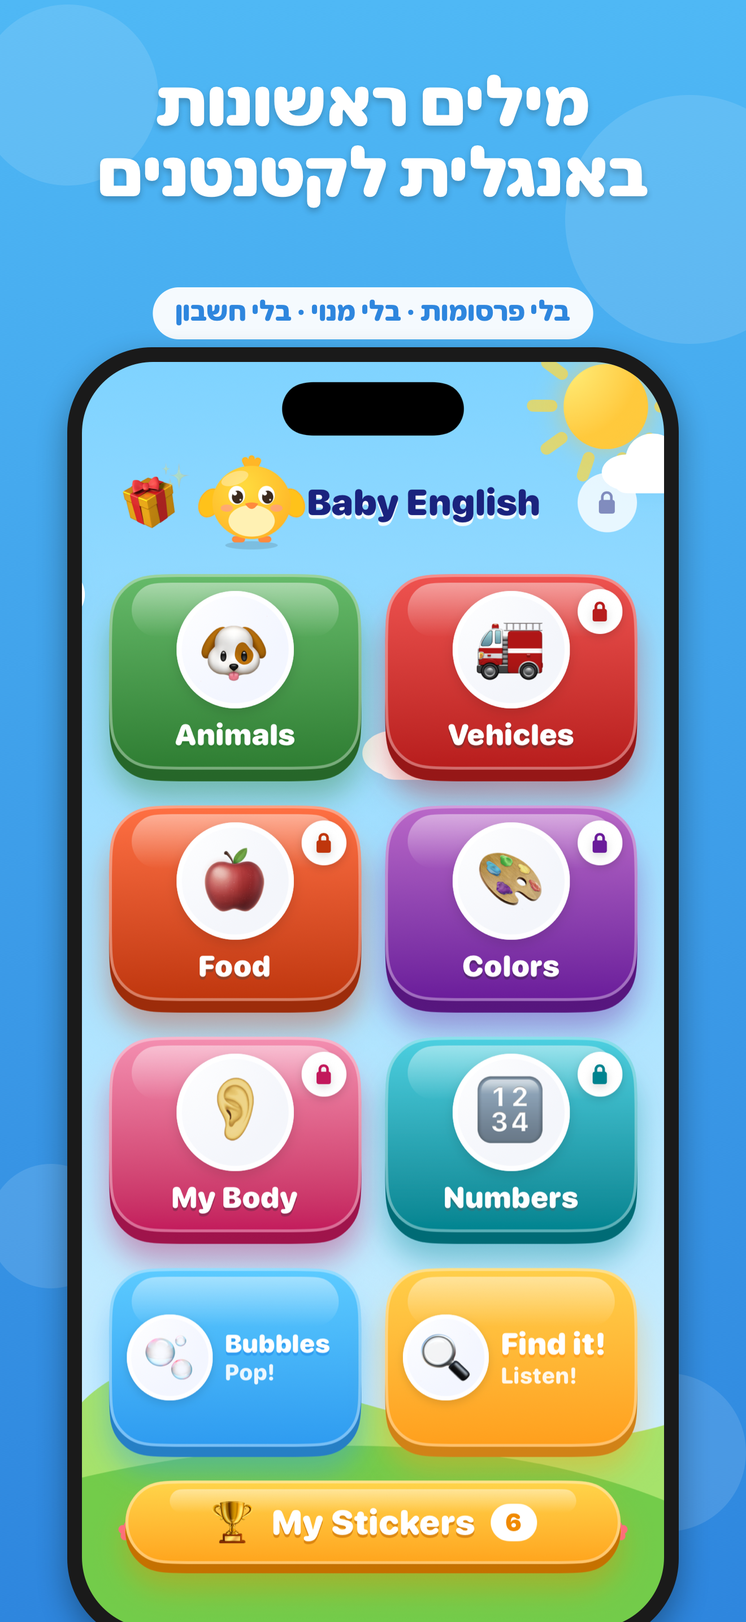
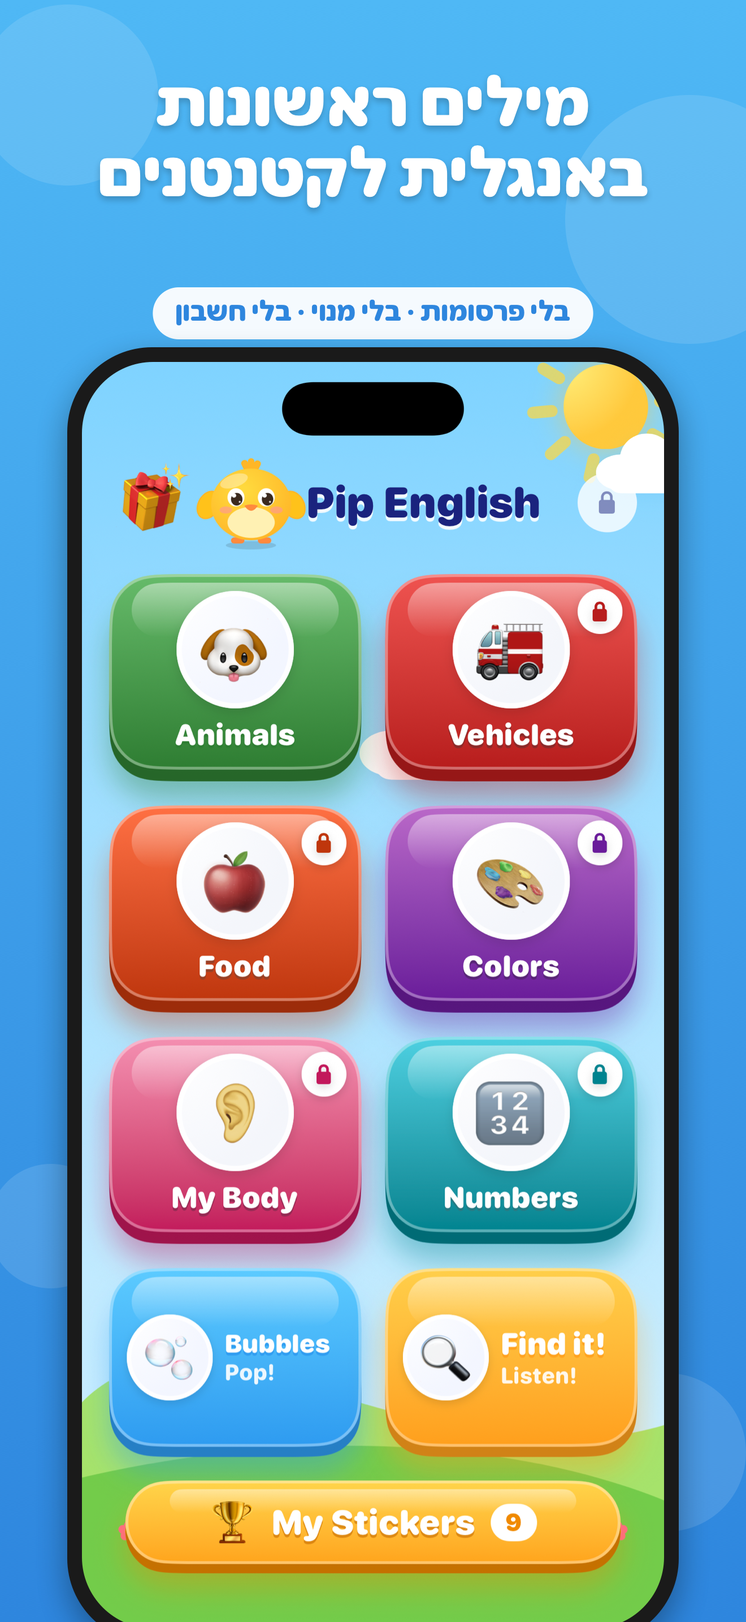
feat: rename the app to Pip English (אנגלית עם פיפ)
- Home-screen name, in-app title, paywall, Parent Zone and privacy text
- App Store names: "Pip English: First Words" / "אנגלית עם פיפ: מילים ראשונות"
- Landing pages, privacy pages, README, submission kit, launch posts
- Screenshot 1 (EN/HE) recaptured with the new name
- Privacy policy now also lists the locally stored Find it! results,
  daily-gift date and settings (still nothing leaves the device)
- Bundle id stays com.babyenglish.app (never shown to users)

diff --git a/docs/index.html b/docs/index.html
@@ -1,6 +1,6 @@
 <!doctype html><html lang="he" dir="rtl"><head><meta charset="utf-8">
-<meta name="viewport" content="width=device-width,initial-scale=1"><title>Baby English — מילים ראשונות באנגלית לילדים</title>
-<meta name="description" content="אפליקציה לילדים בגילאי 3 עד 6: מילים ראשונות באנגלית עם קול ברור, משחקים ופיפ האפרוח. בלי פרסומות ובלי מעקב."><meta property="og:title" content="Baby English — מילים ראשונות באנגלית לילדים">
+<meta name="viewport" content="width=device-width,initial-scale=1"><title>אנגלית עם פיפ — מילים ראשונות באנגלית לילדים</title>
+<meta name="description" content="אפליקציה לילדים בגילאי 3 עד 6: מילים ראשונות באנגלית עם קול ברור, משחקים ופיפ האפרוח. בלי פרסומות ובלי מעקב."><meta property="og:title" content="Pip English — מילים ראשונות באנגלית לילדים">
 <meta property="og:description" content="אפליקציה לילדים בגילאי 3 עד 6: מילים ראשונות באנגלית עם קול ברור, משחקים ופיפ האפרוח. בלי פרסומות ובלי מעקב."><meta property="og:image" content="assets/he_01_home.jpg">
 <link rel="icon" href="assets/icon.png"><style>
 :root{--sky:#7FD3FF;--sky2:#D8F3FF;--ink:#1A237E;--sun:#FFB627;--card:#ffffff;--muted:#4a5577;--bg:#F6FBFF}
@@ -25,10 +25,10 @@ h2{font-size:30px;margin:0 0 18px;font-weight:900}
 ul.par{padding:0;list-style:none;display:grid;gap:10px}ul.par li{background:var(--card);border-radius:16px;padding:14px 18px;font-weight:600}
 footer{text-align:center;padding:30px 16px 50px;color:var(--muted)}footer a{color:inherit}
 </style></head><body>
-<div class="hero"><div class="top"><div class="brand"><img src="assets/icon.png" alt="">Baby English</div><a class="lang" href="en.html">English</a></div>
+<div class="hero"><div class="top"><div class="brand"><img src="assets/icon.png" alt="">אנגלית עם פיפ</div><a class="lang" href="en.html">English</a></div>
 <h1>מילים ראשונות באנגלית<br>לילדים בגילאי 3 עד 6</h1><p class="sub">קול ברור, תמונות גדולות ושלושה משחקים שבנויים לידיים קטנות. עם פיפ, האפרוח שמריע על כל הצלחה.</p><span class="cta soon">בקרוב ב-App Store</span><p class="free">בלי מנוי, אף פעם · עולם החיות וכל המשחקים בחינם · בלי פרסומות · בלי חשבון</p>
 <div class="shots"><img src="assets/he_01_home.jpg" alt="" loading="lazy"><img src="assets/he_02_bubbles.jpg" alt="" loading="lazy"><img src="assets/he_03_findit.jpg" alt="" loading="lazy"><img src="assets/he_05_celebrate.jpg" alt="" loading="lazy"></div></div>
 <section><div class="grid"><div class="card"><div class="e">🫧</div><h3>בועות</h3><p>מפוצצים בועות ושומעים את המילה. כל נגיעה עושה משהו, אין דרך להיכשל.</p></div><div class="card"><div class="e">🔍</div><h3>Find it!</h3><p>שומעים מילה ומוצאים את התמונה. מתחיל עם 2 תמונות ומתקדם יחד עם הילד.</p></div><div class="card"><div class="e">🃏</div><h3>כרטיסיות</h3><p>נוגעים בכל מקום ושומעים את המילה הבאה. 60 מילים ב-6 עולמות: חיות, כלי תחבורה, אוכל, צבעים, הגוף שלי ומספרים.</p></div><div class="card"><div class="e">🗣</div><h3>עברית ← אנגלית</h3><p>שומעים קודם את המילה בעברית ואז באנגלית: ״כלב… Dog!״. הילד מחבר את המילה החדשה למה שהוא כבר מכיר. הכי טוב כשמשחקים יחד עם ההורה.</p></div><div class="card"><div class="e">🏆</div><h3>מדבקות</h3><p>כל סבב שמסתיים מזכה במדבקה וחגיגה קטנה, ופעם ביום פיפ משאיר מתנת הפתעה 🎁</p></div></div></section>
 <section><h2>להורים</h2><ul class="par"><li>✓ בלי פרסומות, בלי אנליטיקה, בלי מעקב. שום מידע לא יוצא מהמכשיר.</li><li>✓ רכישה חד-פעמית וקטנה פותחת את כל העולמות. בלי מנוי. כולל שיתוף משפחתי.</li><li>✓ כל מה שמיועד למבוגרים נמצא מאחורי שער הורים.</li><li>✓ עובד בלי אינטרנט וגם במצב שקט.</li></ul></section>
 <section id="support"><h2>תמיכה</h2><p>שאלות או בעיה? כתבו לנו <a href="https://github.com/ahochma/baby-english/issues">כאן</a>.</p></section>
-<footer><a href="privacy.html">מדיניות פרטיות</a> · © 2026 Baby English</footer></body></html>
+<footer><a href="privacy.html">מדיניות פרטיות</a> · © 2026 אנגלית עם פיפ</footer></body></html>

diff --git a/docs/privacy.html b/docs/privacy.html
@@ -1,5 +1,5 @@
 <!doctype html><html lang="en"><head><meta charset="utf-8"><meta name="viewport" content="width=device-width,initial-scale=1">
-<title>Baby English — Privacy Policy</title><link rel="icon" href="assets/icon.png"><style>
+<title>Pip English — Privacy Policy</title><link rel="icon" href="assets/icon.png"><style>
 :root{--sky:#7FD3FF;--sky2:#D8F3FF;--ink:#1A237E;--sun:#FFB627;--card:#ffffff;--muted:#4a5577;--bg:#F6FBFF}
 @media (prefers-color-scheme:dark){:root{--ink:#E8ECFF;--card:#1B2240;--muted:#B5BEDF;--bg:#0F1530;--sky:#1E3A6E;--sky2:#0F1530}}
 *{box-sizing:border-box}body{margin:0;font-family:ui-rounded,"SF Pro Rounded",-apple-system,"Segoe UI",Arial,sans-serif;color:var(--ink);background:var(--bg);line-height:1.5}
@@ -23,30 +23,30 @@ ul.par{padding:0;list-style:none;display:grid;gap:10px}ul.par li{background:var(
 footer{text-align:center;padding:30px 16px 50px;color:var(--muted)}footer a{color:inherit}
 
 main{max-width:760px;margin:0 auto;padding:32px 16px} li{margin:6px 0} h1{font-size:34px;margin:20px 0} [lang=he]{direction:rtl}</style></head>
-<body><main><h1>Baby English — Privacy Policy</h1>
+<body><main><h1>Pip English — Privacy Policy</h1>
 <p>Last updated: November 2026</p>
-<p>The short version: Baby English collects no personal data. None.</p>
+<p>The short version: Pip English collects no personal data. None.</p>
 <h2>What we collect</h2>
 <p>Nothing. The app has no accounts, no sign-in, no advertising, no analytics SDKs, no tracking and no third-party code. It never connects to our servers, because there are none.</p>
 <h2>What is stored on the device</h2>
 <p>To keep your child&#x27;s progress, the app stores these on the device only:</p>
-<li>stickers earned</li>
-<li>which words have been heard</li>
+<li>stickers earned, and the day the last daily gift was opened</li>
+<li>which words have been heard, and how Find it! answers went (so the app can repeat the words your child finds hard)</li>
 <li>the daily play streak</li>
-<li>the sound-effects setting</li>
+<li>your settings (sound effects, music, calm mode, Hebrew→English)</li>
 <p>This data never leaves the device. Deleting the app deletes it.</p>
 <h2>Purchases</h2>
 <p>The optional &quot;Unlock Everything&quot; purchase is processed entirely by Apple through the App Store. We never receive your name, email address or payment details.</p>
 <h2>Children</h2>
-<p>Baby English is made for children under 5 and is designed to comply with COPPA (US) and GDPR-K (EU/UK). We do not collect personal information from children. Purchases, settings and external links sit behind a parental gate.</p>
+<p>Pip English is made for children under 5 and is designed to comply with COPPA (US) and GDPR-K (EU/UK). We do not collect personal information from children. Purchases, settings and external links sit behind a parental gate.</p>
 <h2>Changes</h2>
 <p>If this policy changes, the new version will be posted on this page with a new date.</p>
 <h2>Contact</h2>
-<p>Questions? Contact us via the support link on the Baby English App Store page.</p>
+<p>Questions? Contact us via the support link on the Pip English App Store page.</p>
 <hr><div lang="he" dir="rtl">
-<h1>מדיניות פרטיות — Baby English</h1>
-<p>בקצרה: Baby English לא אוספת שום מידע אישי.</p>
+<h1>מדיניות פרטיות — אנגלית עם פיפ</h1>
+<p>בקצרה: אנגלית עם פיפ לא אוספת שום מידע אישי.</p>
 <li>אין חשבונות, אין פרסומות, אין אנליטיקה, אין מעקב ואין קוד של צד שלישי.</li>
-<li>המדבקות, המילים שנשמעו, רצף הימים והגדרת הצלילים נשמרים רק במכשיר. מחיקת האפליקציה מוחקת אותם.</li>
+<li>המדבקות, המילים שנשמעו, תוצאות Find it! (כדי לחזור על מילים קשות), רצף הימים וההגדרות נשמרים רק במכשיר. מחיקת האפליקציה מוחקת אותם.</li>
 <li>רכישות מטופלות במלואן על ידי Apple. אנחנו לא רואים שם, אימייל או פרטי תשלום.</li>
-<li>האפליקציה מיועדת לילדים מתחת לגיל 5 ועומדת ב-COPPA וב-GDPR-K. רכישות, הגדרות וקישורים נמצאים מאחורי שער הורים.</li></div><p><a href="index.html">← Baby English</a></p></main></body></html>
+<li>האפליקציה מיועדת לילדים מתחת לגיל 5 ועומדת ב-COPPA וב-GDPR-K. רכישות, הגדרות וקישורים נמצאים מאחורי שער הורים.</li></div><p><a href="index.html">← Pip English</a></p></main></body></html>

diff --git a/docs/en.html b/docs/en.html
@@ -1,6 +1,6 @@
 <!doctype html><html lang="en" dir="ltr"><head><meta charset="utf-8">
-<meta name="viewport" content="width=device-width,initial-scale=1"><title>Baby English — First English words for kids</title>
-<meta name="description" content="First English words for kids aged 3–6: a clear voice, three games and Pip the chick. No ads, no tracking."><meta property="og:title" content="Baby English — First English words for kids">
+<meta name="viewport" content="width=device-width,initial-scale=1"><title>Pip English — First English words for kids</title>
+<meta name="description" content="First English words for kids aged 3–6: a clear voice, three games and Pip the chick. No ads, no tracking."><meta property="og:title" content="Pip English — First English words for kids">
 <meta property="og:description" content="First English words for kids aged 3–6: a clear voice, three games and Pip the chick. No ads, no tracking."><meta property="og:image" content="assets/en_01_home.jpg">
 <link rel="icon" href="assets/icon.png"><style>
 :root{--sky:#7FD3FF;--sky2:#D8F3FF;--ink:#1A237E;--sun:#FFB627;--card:#ffffff;--muted:#4a5577;--bg:#F6FBFF}
@@ -25,10 +25,10 @@ h2{font-size:30px;margin:0 0 18px;font-weight:900}
 ul.par{padding:0;list-style:none;display:grid;gap:10px}ul.par li{background:var(--card);border-radius:16px;padding:14px 18px;font-weight:600}
 footer{text-align:center;padding:30px 16px 50px;color:var(--muted)}footer a{color:inherit}
 </style></head><body>
-<div class="hero"><div class="top"><div class="brand"><img src="assets/icon.png" alt="">Baby English</div><a class="lang" href="index.html">עברית</a></div>
+<div class="hero"><div class="top"><div class="brand"><img src="assets/icon.png" alt="">Pip English</div><a class="lang" href="index.html">עברית</a></div>
 <h1>First English words<br>for kids aged 3–6</h1><p class="sub">A clear, friendly voice, big pictures and three games built for little hands. With Pip, the chick who cheers every success.</p><span class="cta soon">Coming soon to the App Store</span><p class="free">No subscription, ever · Animals and all games are free · No ads · No account</p>
 <div class="shots"><img src="assets/en_01_home.jpg" alt="" loading="lazy"><img src="assets/en_02_bubbles.jpg" alt="" loading="lazy"><img src="assets/en_03_findit.jpg" alt="" loading="lazy"><img src="assets/en_05_celebrate.jpg" alt="" loading="lazy"></div></div>
 <section><div class="grid"><div class="card"><div class="e">🫧</div><h3>Bubbles</h3><p>Pop floating bubbles to hear each word. Every touch does something, no way to fail.</p></div><div class="card"><div class="e">🔍</div><h3>Find it!</h3><p>Hear a word, find the picture. Starts with 2 pictures and grows with your child.</p></div><div class="card"><div class="e">🃏</div><h3>Flashcards</h3><p>Tap anywhere to hear the next word. 60 words in 6 worlds: animals, vehicles, food, colors, body and numbers.</p></div><div class="card"><div class="e">🏆</div><h3>Stickers</h3><p>Every finished round earns a sticker, and once a day Pip leaves a surprise gift 🎁</p></div></div></section>
 <section><h2>For parents</h2><ul class="par"><li>✓ No ads, no analytics, no tracking. Nothing leaves the device.</li><li>✓ One small one-time purchase unlocks every world. No subscription. Family Sharing included.</li><li>✓ Everything for grown-ups sits behind a parental gate.</li><li>✓ Works offline and in silent mode.</li></ul></section>
 <section id="support"><h2>Support</h2><p>Questions or a problem? Write to us <a href="https://github.com/ahochma/baby-english/issues">here</a>.</p></section>
-<footer><a href="privacy.html">Privacy policy</a> · © 2026 Baby English</footer></body></html>
+<footer><a href="privacy.html">Privacy policy</a> · © 2026 Pip English</footer></body></html>

diff --git a/ios/App/App/PaywallView.swift b/ios/App/App/PaywallView.swift
@@ -105,7 +105,7 @@ struct PaywallView: View {
 
     private func titleBlock(u: CGFloat) -> some View {
         VStack(spacing: 8) {
-            Text(L10n.t("Unlock all of Baby English", "פתחו את כל Baby English"))
+            Text(L10n.t("Unlock all of Pip English", "פתחו את כל העולמות של פיפ"))
                 .font(.system(size: 28 * u, weight: .heavy, design: .rounded))
                 .multilineTextAlignment(.center)
                 .foregroundColor(Palette.parentInk)
@@ -250,11 +250,11 @@ struct PrivacyPolicyView: View {
             ScrollView {
                 VStack(alignment: .leading, spacing: 16) {
                     section(L10n.t("The short version", "בקצרה"),
-                            L10n.t("Baby English collects no personal data. There are no accounts, no ads, no analytics and no tracking. Nothing your child does in the app ever leaves the device.",
-                                   "Baby English לא אוספת שום מידע אישי. אין חשבונות, אין פרסומות, אין אנליטיקה ואין מעקב. שום דבר שהילד עושה באפליקציה לא יוצא מהמכשיר."))
+                            L10n.t("Pip English collects no personal data. There are no accounts, no ads, no analytics and no tracking. Nothing your child does in the app ever leaves the device.",
+                                   "אנגלית עם פיפ לא אוספת שום מידע אישי. אין חשבונות, אין פרסומות, אין אנליטיקה ואין מעקב. שום דבר שהילד עושה באפליקציה לא יוצא מהמכשיר."))
                     section(L10n.t("What is stored on the device", "מה נשמר במכשיר"),
-                            L10n.t("Stickers earned, which words were heard, the play streak and your sound setting are saved only on this device so progress isn't lost. Deleting the app deletes them.",
-                                   "המדבקות שנאספו, המילים שנשמעו, רצף הימים והגדרת הצלילים נשמרים רק במכשיר הזה כדי שההתקדמות לא תאבד. מחיקת האפליקציה מוחקת אותם."))
+                            L10n.t("Stickers earned, which words were heard, how Find it! answers went (so hard words come back more often), the play streak and your settings are saved only on this device so progress isn't lost. Deleting the app deletes them.",
+                                   "המדבקות שנאספו, המילים שנשמעו, תוצאות Find it! (כדי שמילים קשות יחזרו יותר), רצף הימים וההגדרות נשמרים רק במכשיר הזה כדי שההתקדמות לא תאבד. מחיקת האפליקציה מוחקת אותם."))
                     section(L10n.t("Purchases", "רכישות"),
                             L10n.t("Purchases are handled entirely by Apple. We never see your name, email or payment details.",
                                    "הרכישות מטופלות במלואן על ידי Apple. אנחנו לא רואים את השם, האימייל או פרטי התשלום שלכם."))

diff --git a/ios/App/App/ParentZoneView.swift b/ios/App/App/ParentZoneView.swift
@@ -263,7 +263,7 @@ struct ParentZoneView: View {
             VStack(spacing: 0) {
                 row(L10n.t("Privacy policy", "מדיניות פרטיות"), "hand.raised.fill") { showPrivacy = true }
                 Divider().padding(.vertical, 6)
-                row(L10n.t("Rate Baby English", "דרגו את Baby English"), "star.fill") { requestReview() }
+                row(L10n.t("Rate Pip English", "דרגו את אנגלית עם פיפ"), "star.fill") { requestReview() }
                 Divider().padding(.vertical, 6)
                 HStack {
                     Label(L10n.t("Version", "גרסה"), systemImage: "info.circle")

diff --git a/ios/App/App/HomeView.swift b/ios/App/App/HomeView.swift
@@ -126,7 +126,7 @@ struct HomeView: View {
                     .frame(width: 62 * u, height: 62 * u)
                     .offset(y: mascotHop ? -14 * u : 0)
                     .onTapGesture(perform: hopMascot)
-                Text("Baby English")
+                Text("Pip English")
                     .font(.system(size: 31 * u, weight: .black, design: .rounded))
                     .foregroundColor(Palette.ink)
                     .shadow(color: .white.opacity(0.9), radius: 0, x: 0, y: 2.5)

diff --git a/docs/privacy-policy.md b/docs/privacy-policy.md
@@ -1,18 +1,18 @@
-# Baby English — Privacy Policy
+# Pip English — Privacy Policy
 
 _Last updated: November 2026_
 
-**The short version: Baby English collects no personal data. None.**
+**The short version: Pip English collects no personal data. None.**
 
 ## What we collect
 Nothing. The app has no accounts, no sign-in, no advertising, no analytics SDKs, no tracking and no third-party code. It never connects to our servers, because there are none.
 
 ## What is stored on the device
 To keep your child's progress, the app stores these on the device only:
-- stickers earned
-- which words have been heard
+- stickers earned, and the day the last daily gift was opened
+- which words have been heard, and how Find it! answers went (so the app can repeat the words your child finds hard)
 - the daily play streak
-- the sound-effects setting
+- your settings (sound effects, music, calm mode, Hebrew→English)
 
 This data never leaves the device. Deleting the app deletes it.
 
@@ -20,21 +20,21 @@ This data never leaves the device. Deleting the app deletes it.
 The optional "Unlock Everything" purchase is processed entirely by Apple through the App Store. We never receive your name, email address or payment details.
 
 ## Children
-Baby English is made for children under 5 and is designed to comply with COPPA (US) and GDPR-K (EU/UK). We do not collect personal information from children. Purchases, settings and external links sit behind a parental gate.
+Pip English is made for children under 5 and is designed to comply with COPPA (US) and GDPR-K (EU/UK). We do not collect personal information from children. Purchases, settings and external links sit behind a parental gate.
 
 ## Changes
 If this policy changes, the new version will be posted on this page with a new date.
 
 ## Contact
-Questions? Contact us via the support link on the Baby English App Store page.
+Questions? Contact us via the support link on the Pip English App Store page.
 
 ---
 
-# מדיניות פרטיות — Baby English
+# מדיניות פרטיות — אנגלית עם פיפ
 
-**בקצרה: Baby English לא אוספת שום מידע אישי.**
+**בקצרה: אנגלית עם פיפ לא אוספת שום מידע אישי.**
 
 - אין חשבונות, אין פרסומות, אין אנליטיקה, אין מעקב ואין קוד של צד שלישי.
-- המדבקות, המילים שנשמעו, רצף הימים והגדרת הצלילים נשמרים **רק במכשיר**. מחיקת האפליקציה מוחקת אותם.
+- המדבקות, המילים שנשמעו, תוצאות Find it! (כדי לחזור על מילים קשות), רצף הימים וההגדרות נשמרים **רק במכשיר**. מחיקת האפליקציה מוחקת אותם.
 - רכישות מטופלות במלואן על ידי Apple. אנחנו לא רואים שם, אימייל או פרטי תשלום.
 - האפליקציה מיועדת לילדים מתחת לגיל 5 ועומדת ב-COPPA וב-GDPR-K. רכישות, הגדרות וקישורים נמצאים מאחורי שער הורים.

diff --git a/docs/APP_STORE.md b/docs/APP_STORE.md
@@ -1,6 +1,6 @@
 # App Store submission kit
 
-Everything needed to take Baby English from this repo to "Ready for Sale".
+Everything needed to take Pip English from this repo to "Ready for Sale".
 Work through the checklist top to bottom.
 
 ---
@@ -49,7 +49,7 @@ Attach the IAP to the first version submission ("In-App Purchases" section on th
 > All listing text and the captioned screenshots are ready to upload in `fastlane/` (`fastlane deliver`, or paste the text files by hand). The copy below is the same text for reference.
 
 ### English
-- **Name:** Baby English: First Words
+- **Name:** Pip English: First Words
 - **Subtitle:** English words & games, ages 3–6
 - **Promotional text:** New: Bubbles for babies and Find it! for toddlers. Animals and all games are free.
 - **Keywords:** `toddler,baby,first words,flashcards,kids,learn english,preschool,abc,animals,colors,vehicles,esl`
@@ -79,7 +79,7 @@ Attach the IAP to the first version submission ("In-App Purchases" section on th
 > The Animals world and every game are free forever. One small, one-time purchase unlocks five more worlds: Vehicles, Food, Colors, My Body and Numbers (60 words in all). No subscription. Family Sharing included.
 
 ### עברית (Hebrew localization; add "Hebrew" in App Store Connect)
-- **שם:** Baby English: מילים ראשונות
+- **שם:** אנגלית עם פיפ: מילים ראשונות
 - **כותרת משנה:** אנגלית לילדים בגילאי 3–6
 - **מילות מפתח:** `אנגלית,תינוק,פעוט,מילים ראשונות,כרטיסיות,ילדים,גן,לימוד,חיות,צבעים,משחק,english`
 - **תיאור:**
@@ -130,7 +130,7 @@ App preview video (optional, big conversion win): a 15-second screen recording o
 
 ## 7. Notes for App Review (paste into "App Review Information → Notes")
 
-> Baby English is a Kids Category app (ages 5 and under).
+> Pip English is a Kids Category app (ages 5 and under).
 > • The parental gate is a multiplication question with a number pad. It appears before the paywall, the Parent Zone, restore purchase and the external Terms link.
 > • To reach the purchase: tap any card with a lock (e.g. "Vehicles"), solve the gate, and you'll see the "Unlock Everything" non-consumable IAP.
 > • The app collects no data, contains no third-party SDKs, no ads and no analytics.

diff --git a/docs/LAUNCH_50.md b/docs/LAUNCH_50.md
@@ -34,7 +34,7 @@ Everything that can be prepared is already in the repo:
 
 ### Tue 24 (while in review): trust & featuring
 - App Store Connect → **Featuring Nominations** → nominate the launch (Kids, Education). Mention: no ads, no subscription, no data, Hebrew→English mode.
-- Check whether **Common Sense Media** accepts title suggestions, and suggest Baby English. Their reviews carry a lot of weight with parents.
+- Check whether **Common Sense Media** accepts title suggestions, and suggest Pip English. Their reviews carry a lot of weight with parents.
 
 ### Thu 26: launch day (target 25 downloads)
 - As soon as it's "Ready for Sale": put the link in `docs/index.html` (`APP_STORE_URL` at the top of the generator, or just replace the "Coming soon" button) and send it to **everyone who said "me"**.
@@ -61,7 +61,7 @@ Fill the bracketed parts with real details only. Made-up testimonials hurt trust
 > 🐣 השקנו אפליקציה קטנה ללימוד אנגלית לילדים בגילאי 3–6!
 >
 > [משפט אישי אמיתי שלכם: למה בניתם את זה. למשל מה קרה בבית שגרם לכם להתחיל]
-> אז בנינו את **Baby English**:
+> אז בנינו את **אנגלית עם פיפ** (Pip English):
 > 🫧 מפוצצים בועות ושומעים מילים
 > 🔍 Find it! – שומעים מילה ומוצאים את התמונה
 > 🃏 כרטיסיות עם קול ברור ותמונות גדולות

diff --git a/docs/GO_TO_MARKET.md b/docs/GO_TO_MARKET.md
@@ -24,7 +24,7 @@ Israel without paid ads, because the Hebrew App Store has almost no polished
 
 ## Positioning: the anti-subscription kids' app
 
-Competitor reviews (e.g. 1-star reviews on popular kids' English apps) are dominated by: surprise monthly charges, trials that convert into payments, subscriptions that can't be cancelled, and data/email concerns. Baby English has none of these. Lead every post, screenshot and reply with it: **"Pay once. No subscription. No account."**
+Competitor reviews (e.g. 1-star reviews on popular kids' English apps) are dominated by: surprise monthly charges, trials that convert into payments, subscriptions that can't be cancelled, and data/email concerns. Pip English has none of these. Lead every post, screenshot and reply with it: **"Pay once. No subscription. No account."**
 
 ## What parents reward (research summary, Nov 2026)
 

diff --git a/README.md b/README.md
@@ -1,6 +1,6 @@
 <div align="center">
 
-# 🐣 Baby English
+# 🐣 Pip English (אנגלית עם פיפ)
 
 **First English words for kids aged 3–6, with pictures, a clear voice, a friendly mascot and three games built for little hands.**
 
